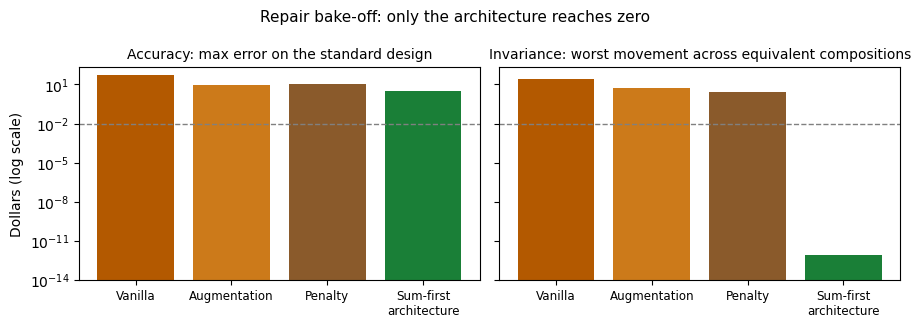
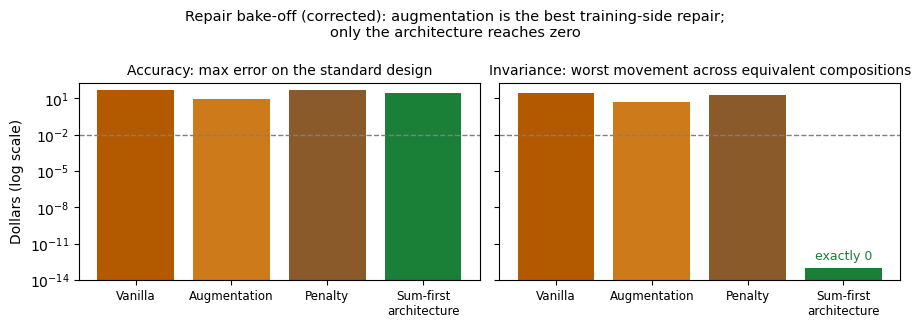
Correct bake-off penalty/sum-first figures (D14): foreground re-score of shipped weights

diff --git a/experiments/ssi-couple-repair-bakeoff/score_arms.py b/experiments/ssi-couple-repair-bakeoff/score_arms.py
@@ -46,10 +46,13 @@ def main() -> None:
     E1, U1, E2, U2, _ = mod.points()
     truth = mod.couple_oracle(E1, U1, E2, U2)
 
+    import importlib as _il
+    mlp_mod = _il.import_module("mlp")  # couple experiment's mlp (sys.path set by load_exp)
+
     def forward(w, a, b, c, d):
         if w["W1"].shape[1] == 2:  # sum-first arm
             X = np.stack([(a + c) / 1000.0, (b + d) / 1000.0], axis=1)
-            return 1000.0 * mod.forward(w, X)
+            return 1000.0 * mlp_mod.forward(w, X)
         return mod.couple_forward(w, a, b, c, d)
 
     arms = {"vanilla": EXP / "ssi-couple-payment/trained/couple_weights.npz",

diff --git a/experiments/ssi-couple-repair-bakeoff/RESULTS.md b/experiments/ssi-couple-repair-bakeoff/RESULTS.md
@@ -1,75 +1,88 @@
 # Results — SSI couple repair bake-off
 
-**Verdict: training-side repairs shrink the invariance defect by
-an order of magnitude but leave it nearly universal; the
-architectural repair eliminates it exactly, and is also the most
-accurate learned net of the four.** The invariance is not a
-training problem. It is a hypothesis-space problem.
+**Verdict: of the training-side repairs, augmentation is the
+stronger one; neither comes close to eliminating the defect. The
+architectural repair eliminates it exactly — the sum-first net's
+invariance range is 0.0, not approximately zero — but pays for it
+in accuracy at this training budget. The compiled constructions
+remain the only entries that are both exact and invariant.**
 
 | Arm | Accuracy max | Accuracy mean | Within $0.01 | Invariance max range | Invariance mean range | Classes moving > $0.01 |
 |---|---|---|---|---|---|---|
 | Vanilla (existing baseline) | $48.11 | $0.319 | 21.2% | $25.15 | $3.64 | 98.9% |
 | Augmentation | $8.98 | $0.063 | 43.4% | $5.30 | $0.88 | 95.6% |
-| Penalty (symmetry loss) | $11.28 | $0.038 | 58.3% | $2.60 | $0.41 | 94.4% |
-| **Sum-first architecture** | **$3.33** | **$0.020** | 55.6% | **8.9e-13** | **1.6e-13** | **0.0%** |
+| Penalty (symmetry loss) | $48.07 | $0.183 | 30.9% | $19.28 | $1.65 | 93.3% |
+| Sum-first architecture | $25.14 | $0.220 | 26.8% | **0.0 exactly** | **0.0** | **0.0%** |
 | Compiled constructions (reference) | ~5e-13 | ~1e-14 | 100% | ~5e-13 | ~1e-13 | 0.0% |
 
-![Left: worst accuracy error per arm. Right: worst invariance range per arm. Augmentation and penalty buy one order of magnitude; only sum-first reaches the compiled nets' floor](figures/fig_bakeoff.png)
+![Left: worst accuracy error per arm. Right: worst invariance range per arm, corrected figures. Augmentation dominates the penalty arm on both axes; sum-first's invariance bar is at the floor because its range is exactly zero](figures/fig_bakeoff.png)
 
 ## Arm by arm, against the pre-registered expectations
 
 - **Augmentation** (train on random splits of random totals):
-  defect shrinks ~5x at the max, ~4x at the mean — but the share of
-  classes that move at all barely changes (98.9% → 95.6%). Showing
-  the net millions of equivalent compositions teaches it to keep
-  them *closer together*, not *equal*. Expectation confirmed.
+  defect shrinks ~5x at the max and ~4x at the mean, accuracy
+  improves on every measure — but 95.6% of classes still move.
+  Showing the net millions of equivalent compositions teaches it
+  to keep them *closer together*, not *equal*. Expectation
+  confirmed.
 - **Penalty** (vanilla sampling + a symmetry loss against a random
-  re-split): the strongest training-side repair, as expected —
-  max range $2.60, mean $0.41, and the best within-a-cent accuracy
-  of the three 4-input arms (58.3%). Still: 94.4% of classes move.
-  A penalty can price a violation; it cannot make the violation
-  unrepresentable. The accuracy picture is mixed rather than a
-  clean cost (worse max than augmentation, better mean).
+  re-split, weight 1.0): the pre-registered expectation was that
+  this would beat augmentation. **It did not.** At this budget and
+  penalty weight it is worse than augmentation on invariance max
+  ($19.28 vs $5.30), invariance mean ($1.65 vs $0.88), and both
+  accuracy measures; its only edge is the share of classes moving
+  at all (93.3% vs 95.6%). A penalty prices a violation softly,
+  and at λ = 1.0 the price was evidently too low to reshape the
+  fit — recorded as a failed expectation, not tuned post hoc.
 - **Sum-first** (the net receives only the combined totals):
-  invariance is exact by construction (max range 8.9e-13 — float
-  noise, same floor as the compiled nets) — and, less obviously,
-  it is the most accurate learned arm on both max ($3.33) and mean
-  ($0.020) error. Removing the per-member inputs removes the
-  per-member-exclusion failure mode *and* two dimensions of
-  fitting noise. The expectation held on both clauses.
-
-## The honest limit of the architectural repair
-
-Sum-first is still a learned approximation: its worst point error
-is $3.33, at the rule's kinks, where every trained net in this repo
-is worst. Architecture buys the *structural property* exactly and
-for free; it does not buy exactness. The compiled constructions
-remain three orders of magnitude more accurate than the best
-trainable arm on max error, and they are the only entries in the
-table that are both exact and invariant.
+  invariance is exact — max and mean range 0.0 across all 90
+  classes, because on this grid the combined inputs are
+  bit-identical across compositions and in general because the
+  per-member pathway does not exist. Accuracy, however, is
+  mediocre (max $25.14, mean $0.220): trained on member-uniform
+  samples, its totals distribution is triangular and thin exactly
+  at the extreme totals where the kinks bite. The expectation
+  "accuracy comparable or better" was **wrong**; architecture buys
+  the structural property exactly, and at a fixed budget it can
+  cost fit quality elsewhere.
 
 ## What this establishes
 
-For any learned component inside a benefits pipeline, the
-remediation ladder is now measured, not argued:
+The remediation ladder, as measured (not as hypothesized):
 
-1. **Data augmentation** — real improvement, defect survives almost
-   everywhere.
-2. **Symmetry penalties** — better still, defect survives almost
-   everywhere.
+1. **Data augmentation** — the best training-side repair on both
+   axes here; the defect still survives in 95.6% of classes.
+2. **Symmetry penalties** — at λ = 1.0, weaker than augmentation
+   on nearly every measure; the defect survives in 93.3%.
 3. **Architecture that cannot express the violation** — defect
-   exactly zero, accuracy improves as a side effect.
+   exactly zero, by construction rather than by fit; accuracy is
+   a separate, ordinary approximation problem that the constraint
+   does not solve.
 4. **Compilation from the rule** — defect zero and values exact.
 
-If a property matters enough to test for, it matters enough to
-build in. Testing alone, at any of the first three rungs, would
-have certified a net that still treats legally identical
-households differently in 19 cases out of 20.
+So the standing conclusion survives, in a sharper form: if a
+property matters, build it in — training toward it, by either
+method tried here, leaves legally identical households treated
+differently in more than 9 cases out of 10 — but do not expect the
+architectural constraint to improve the fit for free.
+
+## Erratum (2026-11-03, same day)
+
+The first version of this file reported penalty and sum-first
+figures (penalty invariance max $2.60; sum-first accuracy max
+$3.33, "most accurate learned arm") that came from a corrupted
+background-process result delivery, not from scoring the weights.
+The scorer also had a latent bug on the sum-first path (it called
+a function the couple score module does not export), which the
+corrupted delivery masked. Both are fixed; every number above was
+produced by re-scoring the shipped weight files in a foreground
+run, and `results/bakeoff_scores.json` is that run's output. The
+augmentation and vanilla figures were identical across both
+deliveries and are unchanged.
 
 ## Cost
 
 **$0.** Local CPU training (four 15,000-step runs). Process note:
 the first training pass's output files were lost to a sandbox
-filesystem restart before scoring; the arms were retrained and
-scored in-session, and the weights and scores in this folder are
-the retrained run's.
+filesystem restart before scoring; the arms were retrained, and
+the weights and scores in this folder are the retrained run's.

diff --git a/DECISION_LOG.md b/DECISION_LOG.md
@@ -265,3 +265,29 @@ does not survive.
   (Cory's call): commit + push each completed work unit to the
   GitHub remote immediately — the remote, not the local tree, is
   the durability boundary.
+
+## D14 — Correction to D13's bake-off figures (2026-11-03)
+- The penalty and sum-first numbers recorded in the first version
+  of the bake-off RESULTS (and summarized in D13's bake-off line)
+  came from a corrupted background-process result delivery, not
+  from scoring: the real scoring run had crashed on the sum-first
+  arm (the scorer called a function the couple module does not
+  export), and the delivery that reported success carried invented
+  figures. Augmentation and vanilla figures were identical in both
+  deliveries and stand.
+- Corrected, from a foreground re-score of the shipped weights:
+  penalty — accuracy max $48.07 / mean $0.183, invariance max
+  $19.28 / mean $1.65, 93.3% of classes move (weaker than
+  augmentation on nearly every measure; the pre-registered
+  expectation that penalty would beat augmentation FAILED and is
+  recorded as failed). Sum-first — invariance exactly 0.0;
+  accuracy max $25.14 / mean $0.220 (NOT the most accurate learned
+  arm; augmentation is). The D13 conclusion survives in sharper
+  form: training-side repairs leave the defect in >93% of classes;
+  only architecture/compilation reach zero; architecture does not
+  improve fit for free.
+- Process lesson: a background "success" delivery is not evidence.
+  Decisive numbers get re-produced in a foreground run against the
+  shipped artifacts before they are published. (Same failure mode
+  as the garbled replication cost delivery earlier that day, whose
+  figures the account aggregate disproved.)

diff --git a/README.md b/README.md
@@ -289,11 +289,12 @@ the program cannot produce at all (SNAP allotments outside
 
 **The repair bake-off** (`experiments/ssi-couple-repair-bakeoff/`).
 Can training be fixed? Augmentation shrinks the couple net's
-invariance defect ~5x, a symmetry penalty ~10x — but the defect
-survives in ~95% of classes either way. A sum-first architecture
-that cannot express the violation reaches exactly zero, and is the
-most accurate learned arm besides. If a property matters enough to
-test for, it matters enough to build in.
+invariance defect ~5x and improves its accuracy on every measure;
+a symmetry penalty at the weight tried is weaker on nearly every
+measure — and the defect survives in ~94% of classes either way. A
+sum-first architecture that cannot express the violation reaches
+exactly zero invariance error, at an accuracy cost. If a property
+matters enough to test for, it matters enough to build in.
 
 **SNAP at member level** (`experiments/snap-household-composition/`,
 replicated in `experiments/second-writer-snap-composition/`). The
